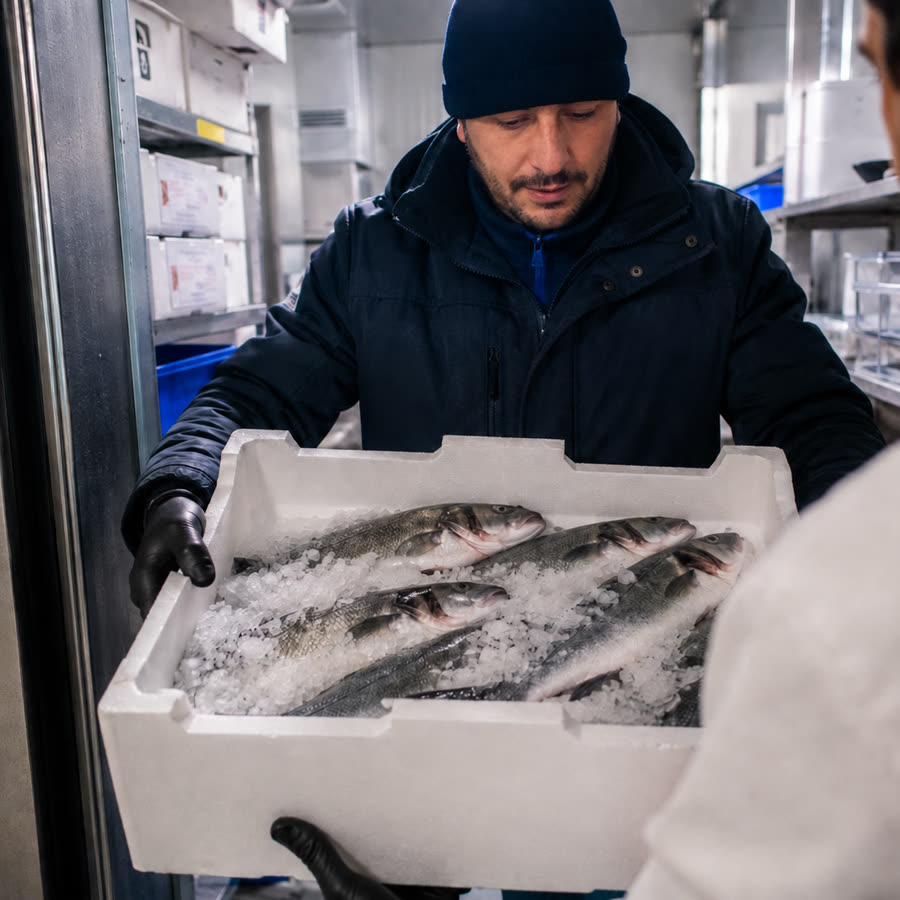
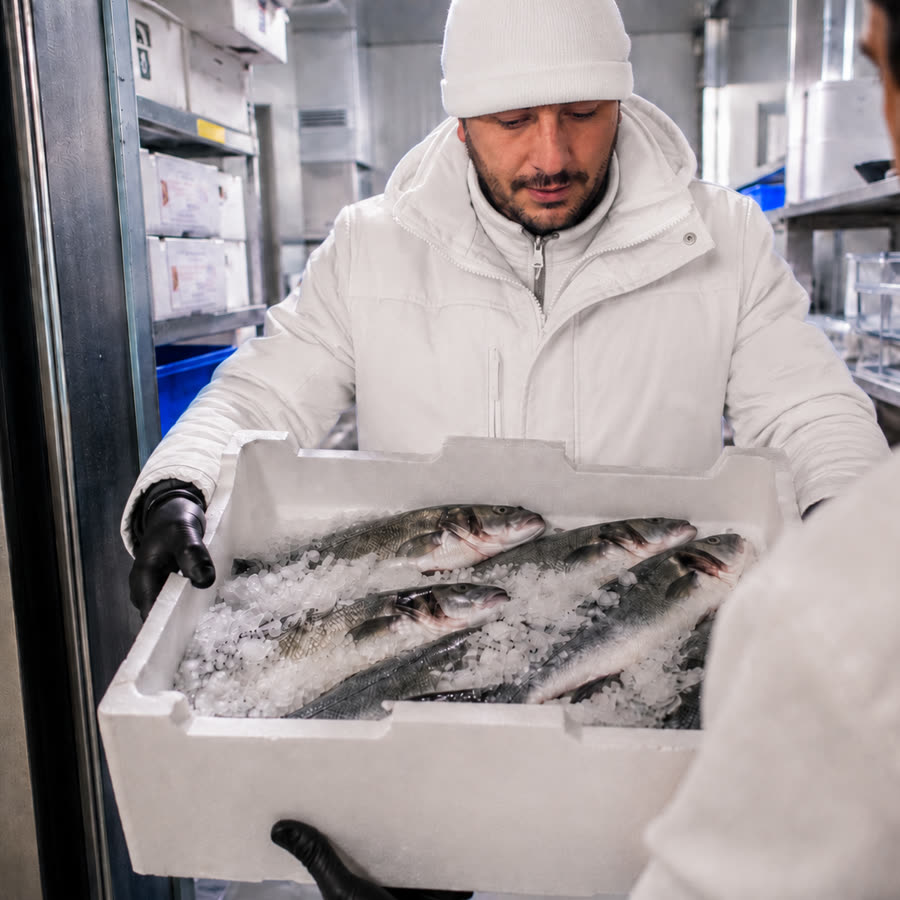
Come Lavoriamo: foto che si vedono davvero, e "Chi Siamo" leggibile
I furgoni erano ritagliati alle spalle: la foto era verticale 1920x2560
e nel contenitore quadrato restavano solo i musi. Ora la flotta alla
banchina in luce di taglio, con la livrea DelMar leggibile — logo,
pesce e indirizzo del sito — che nella versione notturna spariva nel
buio. Ritagliata in quadrato a mano, come le altre: il ritaglio
automatico centra il fotogramma e non il soggetto.

La consegna passa alla versione con l'operatore in bianco: il giubbotto
chiaro stacca dal fondo scuro della cella e la cassa di branzini resta
il centro dell'inquadratura invece di confondersi con l'abbigliamento.

"Chi Siamo" era scritto con il trattamento delle sovrascritte —
maiuscoletto minuscolo, tracciatura larga, colore sbiadito — che regge
sopra un blocco di testo ma sparisce quando deve fare da nome di
sezione. Stesso identico difetto che aveva "Come Lavoriamo".

Invece di correggerlo due volte ho estratto .titolo-sezione, condivisa:
le due sezioni ora leggono dallo stesso stile e non possono divergere.
A "Come Lavoriamo" restano solo le regole che le servono davvero, cioe'
la sovrapposizione, perche' li' il nastro occupa tutta l'altezza e il
titolo va sfilato dal flusso.

L'allineamento e' una classe a parte e non una variante del titolo:
"Come Lavoriamo" resta centrato perche' il contenuto e' simmetrico,
"Chi Siamo" parte da sinistra perche' sopra un impaginato a due colonne
un titolo centrato resta sospeso in mezzo al nulla. Cambia solo
[…]

diff --git a/css/style.css b/css/style.css
@@ -209,9 +209,7 @@ nav a {
 }
 
 /* Solo i bordi, e in nero neutro: un velo steso su tutto lo schermo
-   spegneva il mare e lo virava di blu. La leggibilità del testo la
-   garantisce l'ombra locale dietro ogni capitolo (.ch::before), che
-   scurisce dove serve invece che ovunque */
+   spegneva il mare e lo virava di blu */
 #hero-scrim {
   position: absolute;
   inset: 0;
@@ -281,25 +279,15 @@ nav a {
    sono tutti impilati nello stesso punto e a opacità 0 restano
    comunque bersaglio del mouse — l'ultimo, invisibile, si prendeva
    il clic destinato al capitolo in scena */
+/* PROVA: niente alone dietro le scritte. A tenerle leggibili restano
+   solo le ombre del testo e le due sfumature ai bordi del video.
+   Da rimettere se sui fotogrammi chiari — cielo all'alba, schiuma — il
+   bianco su bianco non regge */
 .ch {
   position: absolute;
   opacity: 0;
-  isolation: isolate;
   color: #fff;
   pointer-events: none;
-}
-
-/* Alone morbido sotto il testo, largo e sfumato fino a sparire: è lui
-   a tenere leggibili i capitoli ora che il video non è più coperto da
-   un velo generale */
-.ch::before {
-  content: '';
-  position: absolute;
-  inset: -7rem -8rem;
-  background: radial-gradient(ellipse at center, rgba(0,0,0,.66) 0%, rgba(0,0,0,.34) 45%, transparent 72%);
-  z-index: -1;
-  pointer-events: none;
-  border-radius: 50%;
 }
 
 #c1 {
@@ -778,11 +766,10 @@ nav a {
   justify-content: center;
 }
 
-.proc-tl-label {
-  position: absolute;
-  top: 8vh;
-  left: 0;
-  right: 0;
+/* Nome della sezione, condiviso: centrato e a inchiostro pieno. Prima
+   era il maiuscoletto minuscolo e slavato usato per le sovrascritte, e
+   in cima a una sezione spariva del tutto */
+.titolo-sezione {
   text-align: center;
   font-size: clamp(1.8rem, 3vw, 3.2rem);
   font-weight: 300;
@@ -790,6 +777,23 @@ nav a {
   line-height: 1.05;
   text-transform: none;
   color: var(--ink);
+  margin: 0 0 6vh;
+}
+
+/* Sopra un impaginato a due colonne il titolo centrato resta sospeso
+   in mezzo al nulla: qui parte dallo stesso margine del testo che
+   introduce */
+.titolo-sinistra {
+  text-align: left;
+}
+
+/* In "Come Lavoriamo" il nastro occupa tutta l'altezza, quindi il
+   titolo va sfilato dal flusso e sovrapposto */
+.proc-tl-label {
+  position: absolute;
+  top: 8vh;
+  left: 0;
+  right: 0;
   margin: 0;
   z-index: 2;
 }
@@ -2264,10 +2268,6 @@ nav a {
     border-radius: 6px;
   }
 
-  .ch::before {
-    inset: -3rem 0;
-  }
-
   .cue {
     margin-top: 1.6rem;
     gap: .8rem;
@@ -2363,9 +2363,13 @@ nav a {
     height: 100svh;
   }
 
+  .titolo-sezione {
+    font-size: clamp(1.9rem, 7.5vw, 3rem);
+    margin-bottom: 4vh;
+  }
+
   .proc-tl-label {
     top: 5vh;
-    font-size: clamp(1.9rem, 7.5vw, 3rem);
   }
 
   /* In colonna il filo non collega più niente: le fasi restano

diff --git a/index.html b/index.html
@@ -58,7 +58,7 @@
       href="https://fonts.googleapis.com/css2?family=Poppins:wght@200;300;400;500;600;700;800&display=swap"
       rel="stylesheet"
     />
-    <link rel="stylesheet" href="css/style.css?v=68" />
+    <link rel="stylesheet" href="css/style.css?v=71" />
   </head>
   <body>
     <!-- SVG sprite -->
@@ -203,7 +203,7 @@
          seguono l'ora del giorno, non il tipo di lavoro — sera, notte in
          laboratorio, buio prima della partenza, luce piena all'arrivo -->
     <section class="section sec-soft" id="processo">
-      <p class="label proc-tl-label">Come Lavoriamo</p>
+      <p class="titolo-sezione proc-tl-label">Come Lavoriamo</p>
       <!-- Filo conduttore: resta fermo mentre le fasi gli scorrono
            sopra, così il movimento laterale si legge come un percorso
            e non come quattro schermate scollegate -->
@@ -233,7 +233,7 @@
           </div>
         </div>
         <div class="fase">
-          <div class="fase-tondo"><img src="assets/truck-night-lights.jpg" alt="I furgoni refrigerati pronti a partire" loading="lazy" /></div>
+          <div class="fase-tondo"><img src="assets/furgoni-giorno.jpg" alt="La flotta refrigerata DelMar schierata alla banchina di carico" loading="lazy" /></div>
           <div class="fase-testo">
             <p class="fase-ora">03 · Prima dell'alba</p>
             <h3 class="fase-titolo">Partono i nostri furgoni</h3>
@@ -413,9 +413,9 @@
       </div>
       <!-- Testo + foto -->
       <div class="azienda-body">
+        <p class="titolo-sezione titolo-sinistra">Chi Siamo</p>
         <div class="azienda-inner">
           <div class="azienda-col-text">
-            <p class="label reveal-label">Chi Siamo</p>
             <h2 class="big-title">
               <span class="clip-wrap"
                 ><span class="clip-inner">Trent'anni<br />di mare.</span></span
